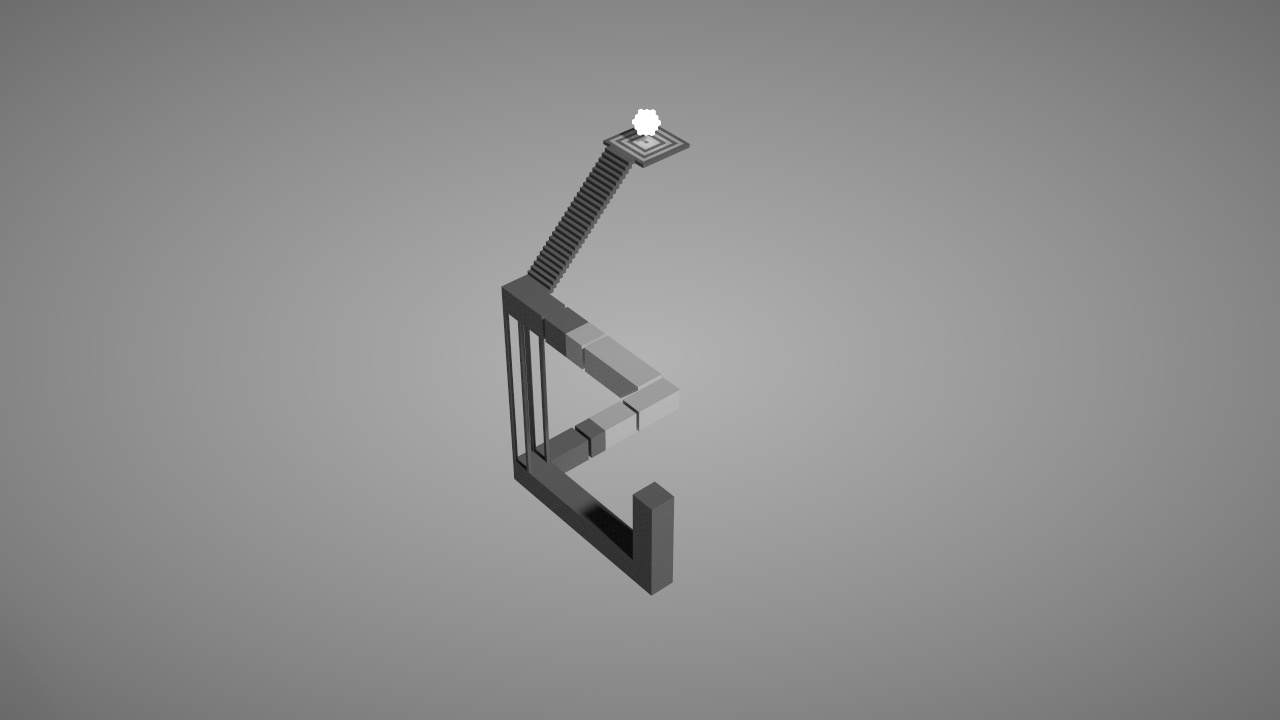
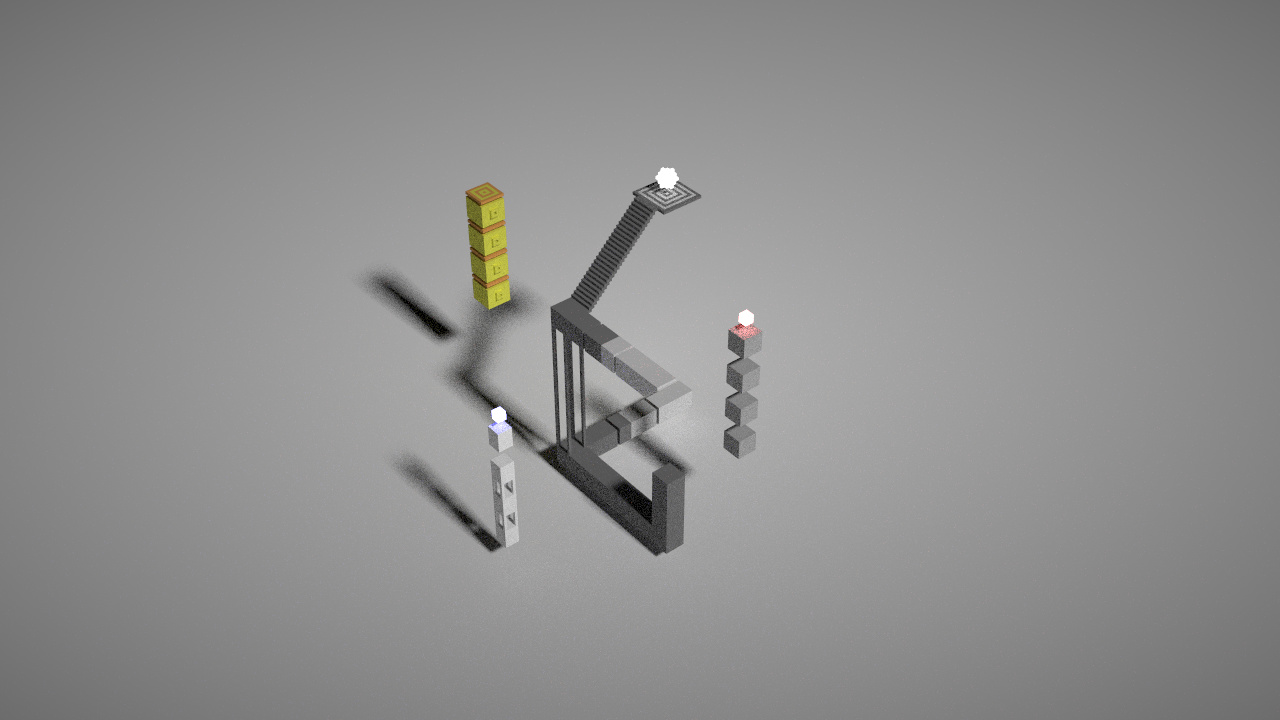
Update

Changed region(s): [[0.2812, 0.1528, 0.5625, 0.825], [0.5625, 0.4278, 0.5938, 0.6417]]

diff --git a/main2.py b/main2.py
@@ -3,23 +3,51 @@ import taichi as ti
 from taichi.math import *
 color1 = (0.2, 0.2, 0.2); color2 = (0.6, 0.6, 0.6); center = (1, 29, -39)
 scene = Scene(voxel_edges=0, exposure=7)
-scene.set_floor(-20, (1.0, 1.0, 1.0))
+scene.set_floor(-1, (1.0, 1.0, 1.0))
 scene.set_directional_light((1, 1, 0), 0.1, (0.1, 0.1, 0.1))
+@ti.func
+def make_column(center, size, color):
+    scene.set_voxel(vec3(center[0] - size, center[1], center[2] + size), 1, vec3(color)); scene.set_voxel(vec3(center[0] - size, center[1], center[2] - size), 1, vec3(color))
+    scene.set_voxel(vec3(center[0] + size, center[1], center[2] - size), 1, vec3(color)); scene.set_voxel(vec3(center[0] + size, center[1], center[2] + size), 1, vec3(color))
 @ti.func
 def make_fix(end, num):
     for m, j in ti.ndrange((1, end), (-3, 4)):
         scene.set_voxel(vec3(41 + m, num, j), 1, vec3(color2))
+@ti.func
+def make_circle(center, size, color):
+    for i, j in ti.ndrange((-size, size+1), (-size, size+1)):
+        if ti.sqrt(i * i + j * j) < size:   scene.set_voxel(vec3(center[0], center[1] + i, center[2] + j), 1, vec3(color));
+    scene.set_voxel(vec3(center), 0, vec3(color))
 @ti.func
 def make_square(center, length, color):
     for i in range(-length, length+1):
         scene.set_voxel(vec3(center[0] + length, center[1], center[2] + i), 1, vec3(color)); scene.set_voxel(vec3(center[0] - length, center[1], center[2] + i), 1, vec3(color))
         scene.set_voxel(vec3(center[0] + i, center[1], center[2] + length), 1, vec3(color)); scene.set_voxel(vec3(center[0] + i, center[1], center[2] - length), 1, vec3(color))
 @ti.func
-def make_star(center, size):
+def make_square_circle(center, size, colorA, colorB):
+    for i in range(size+1):
+        if i % 2 == 0:      make_square(center, size-i, colorA)
+        else:               make_square(center, size-i, colorB)
+@ti.func
+def make_star(center, size, color):
     for i, j, k in ti.ndrange((-size, size+1), (-size, size+1), (-size, size+1)):
         point = ivec3(i, j, k)
-        if point.dot(point) < size*size:
-            scene.set_voxel(vec3(center[0] + i, center[1] + j, center[2] + k), 2, vec3(color1))
+        if point.dot(point) < size*size:        scene.set_voxel(vec3(center[0] + i, center[1] + j, center[2] + k), 2, vec3(color));
+@ti.func
+def make_building_1(center, height, size, column_color, led_color, feature=0):
+    for m, i, j in ti.ndrange((-size, size+1), (0, height+1), (-size, size+1)):
+        if (1/7*height<i<2/7*height or 3/7*height<i<4/7*height) and feature:                                make_column((center[0], center[1]+i, center[2]), size, column_color);
+        elif 1/7*height<i<2/7*height or 3/7*height<i<4/7*height or 5/7*height<i<6/7*height:                 continue;
+        else:                                                                                               scene.set_voxel(vec3(center[0]+m, center[1]+i, center[2]+j), 1, vec3(column_color));
+    make_star((center[0], center[1]+height+5, center[2]), 2, led_color)
+@ti.func
+def make_totem(center, height, size, column_colorA, column_colorB):
+    for i in range(4):
+        make_square_circle((center[0], center[1] + (10 + i * 11) / 42 * height, center[2]), size, column_colorB, column_colorA)
+        make_circle((center[0] + size + 1, center[1] + (5 + i * 11) / 42 * height, center[2]), 2, column_colorA)
+    for m, i, j in ti.ndrange((-size, size+1), (1, height), (-size, size+1)):
+        if 9/42*height<=i<11/42*height or 20/42*height<=i<22/42*height or 31/42*height<=i<=33/42*height :        continue;
+        else:                                                                                               scene.set_voxel(vec3(center[0]+m, center[1]+i, center[2]+j), 1, vec3(column_colorA));
 @ti.kernel
 def initialize_voxels():
     for x, i, j in ti.ndrange((-3, 42), (-3, 4), (-3, 4)):
@@ -29,8 +57,7 @@ def initialize_voxels():
     for x, i, j in ti.ndrange((-3, 53), (-3, 4), (-3, 4)):
         scene.set_voxel(vec3(x, -56 + i, j), 1, vec3(color1))
     for y, i, j in ti.ndrange((-56, 4), (-3, 4), (-3, 4)):
-        scene.set_voxel(vec3(-3, y, 3), 1, vec3(color1));scene.set_voxel(vec3(-3, y, -3), 1, vec3(color1))
-        scene.set_voxel(vec3(3, y, 3), 1, vec3(color1));scene.set_voxel(vec3(3, y, -3), 1, vec3(color1))
+        make_column((0, y, 0), 3, color1)
         if y < -30:                 scene.set_voxel(vec3(49 + i, y, j), 1, vec3(color1));
     for z, i, j in ti.ndrange((-49, 4), (-3, 4), (-3, 4)):
         if z == -34 or z == -17:    continue;
@@ -39,10 +66,11 @@ def initialize_voxels():
     for i, j in ti.ndrange((3, 30), (-4, 5)):
         scene.set_voxel(vec3(1 + j, i, -i - 1), 1, vec3(color1))
         scene.set_voxel(vec3(1 + j, i, -i - 2), 1, vec3(color1))
-    make_fix(7, 3); make_fix(6, 2); make_fix(5, 1); make_fix(4, 0); make_fix(3, -1); make_fix(2, -2)
-    make_square(center, 7, color1); make_square(center, 6, color2); make_square(center, 5, color1); make_square(center, 4, color2)
-    make_square(center, 3, color1); make_square(center, 2, color2); make_square(center, 1, color2); make_square(center, 0, color1)
-    make_star((center[0], center[1] + 6, center[2]), 3)
-
+    for i in range(2, 8):       make_fix(i, -4+i);
+    make_square_circle(center, 7, color1, color2)
+    make_star((center[0], center[1] + 6, center[2]), 3, color1)
+    make_building_1((50, -35, -28), 45, 3, (0.4, 0.4, 0.4), (0.8, 0.2, 0.2))
+    make_building_1((20, -55, 40), 45, 2, (0.8, 0.8, 0.8), (0.2, 0.2, 0.8), 1)
+    make_totem((-57, -30, -10), 42, 4, (0.7, 0.7, 0.1), (0.7, 0.35, 0.1))
 initialize_voxels()
 scene.finish()
